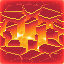
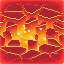
Auto push from gen.py

diff --git a/projects/Lava Floor/index.html b/projects/Lava Floor/index.html
@@ -38,7 +38,7 @@
                     <div class="action-bar">
                         <a class="action-download" href="./Lava-Floor_121092.pxc">
                             <div class="icon"></div>
-                            <p>Download .pxc (24.88 kb)</p>
+                            <p>Download .pxc (26.38 kb)</p>
                         </a>
                     </div>
                 </div>
@@ -178,84 +178,84 @@
 
     }
 
+drawNode("Cellular Noise", "https://docs.pixel-composer.com/nodes/_index/node_cellular.html", 32, 352, 128, 128, "./src/gSS8rf149270e4sAnRdxojjrMmlG49G1.png");
+drawNode("Invert", "https://docs.pixel-composer.com/nodes/_index/node_invert.html", 192, 432, 128, 128, "./src/gSS8t6234551pBJ88pxSHK8XX86hpwbx.png");
+connect(160, 376, 192, 456);
+drawNode("Draw Gradient", "https://docs.pixel-composer.com/nodes/_index/node_gradient.html", 192, 592, 128, 128, "./src/gSS8t9237806z4Fh8K8RAKdfqFfiWLud.png");
 drawNode("Blend", "https://docs.pixel-composer.com/nodes/_index/node_blend.html", 352, 512, 128, 128, "./src/gSS8tC241017qRIrrz8IhPCBGcHW5itk.png");
 connect(320, 456, 352, 536);
 connect(320, 616, 352, 552);
-drawNode("Invert", "https://docs.pixel-composer.com/nodes/_index/node_invert.html", 192, 432, 128, 128, "./src/gSS8t6234551pBJ88pxSHK8XX86hpwbx.png");
-connect(160, 376, 192, 456);
-drawNode("Level", "https://docs.pixel-composer.com/nodes/_index/node_level.html", 512, 352, 128, 128, "./src/gSS9951073537WfkrWFNw6lwP2WvlV68.png");
-connect(480, 376, 512, 376);
-drawNode("Cellular Noise", "https://docs.pixel-composer.com/nodes/_index/node_cellular.html", 32, 352, 128, 128, "./src/gSS8rf149270e4sAnRdxojjrMmlG49G1.png");
+drawNode("Threshold", "https://docs.pixel-composer.com/nodes/_index/node_threshold.html", 512, 512, 128, 128, "./src/gSS8tg270960F5E7c70F1BdcK1nws36P.png");
+connect(480, 536, 512, 536);
+drawNode("Smear", "https://docs.pixel-composer.com/nodes/_index/node_smear.html", 672, 512, 128, 128, "./src/gSS92q70037957IxQj7RIaxKbsK1zxxU.png");
+connect(640, 536, 672, 536);
 drawNode("Threshold", "https://docs.pixel-composer.com/nodes/_index/node_threshold.html", 352, 352, 128, 128, "./src/gSS979957950iHO5T8g8cqkPGCRgib6e.png");
 connect(320, 296, 352, 376);
-drawNode("Vignette", "https://docs.pixel-composer.com/nodes/_index/node_vignette.html", 192, 272, 128, 128, "./src/gSS9Fd1467956Da8xn83HP5xpj2YAgyn.png");
-connect(160, 376, 192, 296);
+drawNode("Blend", "https://docs.pixel-composer.com/nodes/_index/node_blend.html", 832, 352, 128, 128, "./src/gSS97Y983117cXLjI9tZVeZW7GOKjJor.png");
+connect(640, 376, 832, 376);
+connect(800, 536, 832, 392);
+connect(640, 536, 832, 408);
+drawNode("Level", "https://docs.pixel-composer.com/nodes/_index/node_level.html", 512, 352, 128, 128, "./src/gSS9951073537WfkrWFNw6lwP2WvlV68.png");
+connect(480, 376, 512, 376);
 drawNode("Colorize", "https://docs.pixel-composer.com/nodes/_index/node_colorize.html", 992, 352, 128, 128, "./src/gSS99N1091275AOxYFwy8dsFjyQNOHQc.png");
 connect(960, 376, 992, 376);
-drawNode("Level", "https://docs.pixel-composer.com/nodes/_index/node_level.html", 992, 192, 128, 128, "./src/gSS9IQ1635202HNmAimRxv82q0IP4Cy6.png");
-connect(960, 376, 992, 216);
-drawNode("Blend", "https://docs.pixel-composer.com/nodes/_index/node_blend.html", 1152, 160, 128, 128, "./src/gSS9IM1630306t31N1R6BRjeVXOavapa.png");
-connect(1120, 376, 1152, 184);
-connect(960, 200, 1152, 200);
-connect(1120, 216, 1152, 216);
+drawNode("Posterize", "https://docs.pixel-composer.com/nodes/_index/node_posterize.html", 1488, 352, 128, 128, "./src/gSS9A11129459ozzkVlQBz4BLn4wfzIV.png");
+connect(1616, 536, 1488, 376);
+drawNode("Vignette", "https://docs.pixel-composer.com/nodes/_index/node_vignette.html", 1328, 352, 128, 128, "./src/gSS9A811372125dhNoG5hLdwRA6EX2mf.png");
+connect(1296, 376, 1328, 376);
+drawNode("Convolution", "https://docs.pixel-composer.com/nodes/_index/node_convolution.html", 672, 688, 128, 128, "./src/gSS9C01248613XMdeez6rmEY7oAiNIqr.png");
+connect(640, 536, 672, 712);
 drawNode("Color Adjust", "https://docs.pixel-composer.com/nodes/_index/node_color_adjust.html", 1168, 352, 128, 128, "./src/gSS9CL1269248yBgkJWnfNBlUIzrf9Rn.png");
 connect(1280, 184, 1168, 376);
 connect(1120, 872, 1168, 392);
+drawNode("Convolution", "https://docs.pixel-composer.com/nodes/_index/node_convolution.html", 672, 848, 128, 128, "./src/gSS9DH1325365shVrWz6hzKehU6ukHRR.png");
+connect(640, 536, 672, 872);
+drawNode("Blend", "https://docs.pixel-composer.com/nodes/_index/node_blend.html", 832, 688, 128, 128, "./src/gSS9DT1337584A9whpZfuY68x9NLUtCr.png");
+connect(800, 712, 832, 712);
+connect(800, 872, 832, 728);
+connect(640, 744, 832, 744);
+drawNode("Draw Half", "https://docs.pixel-composer.com/nodes/_index/node_shape_half.html", 512, 720, 128, 128, "./src/gSS9DW1340427JMUWeubzo80GIXFa9ND.png");
+drawNode("Blend", "https://docs.pixel-composer.com/nodes/_index/node_blend.html", 832, 848, 128, 128, "./src/gSS9EK1389178ANwf07wcmwniyBtFgUr.png");
+connect(320, 616, 832, 872);
+connect(960, 712, 832, 888);
+drawNode("Level", "https://docs.pixel-composer.com/nodes/_index/node_level.html", 992, 848, 128, 128, "./src/gSS9Ej1413860GSzCFlfA8uE0V9Vnogu.png");
+connect(960, 872, 992, 872);
+drawNode("Vignette", "https://docs.pixel-composer.com/nodes/_index/node_vignette.html", 192, 272, 128, 128, "./src/gSS9Fd1467956Da8xn83HP5xpj2YAgyn.png");
+connect(160, 376, 192, 296);
+drawNode("Cellular Noise", "https://docs.pixel-composer.com/nodes/_index/node_cellular.html", 352, 32, 128, 128, "./src/gSS9Gf1530071XNu4ayKYRAZr6HfgmyT.png");
 drawNode("Colorize", "https://docs.pixel-composer.com/nodes/_index/node_colorize.html", 832, 176, 128, 128, "./src/gSS9Gr1541304QCw42tmmL98v4Q03Uun.png");
 connect(800, 200, 832, 200);
 drawNode("Curve", "https://docs.pixel-composer.com/nodes/_index/node_curve.html", 672, 176, 128, 128, "./src/gSS9HJ1567707OdjZxCQPHraYqYfgcti.png");
 connect(640, 200, 672, 200);
+drawNode("Simplex Noise", "https://docs.pixel-composer.com/nodes/_index/node_noise_simplex.html", 192, 96, 128, 128, "./src/gSS9HY1583019BKxS9NnpOqxkpBxEE3u.png");
 drawNode("Displace", "https://docs.pixel-composer.com/nodes/_index/node_displace.html", 512, 176, 128, 128, "./src/gSS9Hb1585682fxLpULjg8AxeRSUya8v.png");
 connect(480, 56, 512, 200);
 connect(480, 216, 512, 248);
 drawNode("Offset", "https://docs.pixel-composer.com/nodes/_index/node_offset.html", 352, 192, 128, 128, "./src/gSS9I11609958IwJOvGb8NbtMi78v6Z6.png");
 connect(320, 120, 352, 216);
-drawNode("Simplex Noise", "https://docs.pixel-composer.com/nodes/_index/node_noise_simplex.html", 192, 96, 128, 128, "./src/gSS9HY1583019BKxS9NnpOqxkpBxEE3u.png");
-drawNode("Cellular Noise", "https://docs.pixel-composer.com/nodes/_index/node_cellular.html", 352, 32, 128, 128, "./src/gSS9Gf1530071XNu4ayKYRAZr6HfgmyT.png");
-drawNode("Vignette", "https://docs.pixel-composer.com/nodes/_index/node_vignette.html", 1328, 352, 128, 128, "./src/gSS9A811372125dhNoG5hLdwRA6EX2mf.png");
-connect(1296, 376, 1328, 376);
-drawNode("Blend", "https://docs.pixel-composer.com/nodes/_index/node_blend.html", 992, 544, 128, 128, "./src/gSS9Ob2005641KbxAKzKy2y8xaGC5S1O.png");
-connect(640, 536, 992, 568);
-connect(640, 744, 992, 584);
-drawNode("Threshold", "https://docs.pixel-composer.com/nodes/_index/node_threshold.html", 512, 512, 128, 128, "./src/gSS8tg270960F5E7c70F1BdcK1nws36P.png");
-connect(480, 536, 512, 536);
-drawNode("Smear", "https://docs.pixel-composer.com/nodes/_index/node_smear.html", 672, 512, 128, 128, "./src/gSS92q70037957IxQj7RIaxKbsK1zxxU.png");
-connect(640, 536, 672, 536);
-drawNode("Convolution", "https://docs.pixel-composer.com/nodes/_index/node_convolution.html", 672, 848, 128, 128, "./src/gSS9DH1325365shVrWz6hzKehU6ukHRR.png");
-connect(640, 536, 672, 872);
-drawNode("Convolution", "https://docs.pixel-composer.com/nodes/_index/node_convolution.html", 672, 688, 128, 128, "./src/gSS9C01248613XMdeez6rmEY7oAiNIqr.png");
-connect(640, 536, 672, 712);
-drawNode("Blend", "https://docs.pixel-composer.com/nodes/_index/node_blend.html", 832, 688, 128, 128, "./src/gSS9DT1337584A9whpZfuY68x9NLUtCr.png");
-connect(800, 712, 832, 712);
-connect(800, 872, 832, 728);
-connect(640, 744, 832, 744);
-drawNode("Blend", "https://docs.pixel-composer.com/nodes/_index/node_blend.html", 832, 848, 128, 128, "./src/gSS9EK1389178ANwf07wcmwniyBtFgUr.png");
-connect(320, 616, 832, 872);
-connect(960, 712, 832, 888);
-drawNode("Draw Half", "https://docs.pixel-composer.com/nodes/_index/node_shape_half.html", 512, 720, 128, 128, "./src/gSS9DW1340427JMUWeubzo80GIXFa9ND.png");
-drawNode("Level", "https://docs.pixel-composer.com/nodes/_index/node_level.html", 992, 848, 128, 128, "./src/gSS9Ej1413860GSzCFlfA8uE0V9Vnogu.png");
-connect(960, 872, 992, 872);
-drawNode("Blend", "https://docs.pixel-composer.com/nodes/_index/node_blend.html", 832, 352, 128, 128, "./src/gSS97Y983117cXLjI9tZVeZW7GOKjJor.png");
-connect(640, 376, 832, 376);
-connect(800, 536, 832, 392);
-connect(640, 536, 832, 408);
-drawNode("Draw Gradient", "https://docs.pixel-composer.com/nodes/_index/node_gradient.html", 192, 592, 128, 128, "./src/gSS8t9237806z4Fh8K8RAKdfqFfiWLud.png");
-drawNode("Color Adjust", "https://docs.pixel-composer.com/nodes/_index/node_color_adjust.html", 1488, 512, 128, 128, "./src/gSS9RK21685742wuNRenXfzE0i40BwAQ.png");
-connect(1456, 536, 1488, 536);
-connect(1456, 696, 1488, 552);
+drawNode("Blend", "https://docs.pixel-composer.com/nodes/_index/node_blend.html", 1152, 160, 128, 128, "./src/gSS9IM1630306t31N1R6BRjeVXOavapa.png");
+connect(1120, 376, 1152, 184);
+connect(960, 200, 1152, 200);
+connect(1120, 216, 1152, 216);
+drawNode("Level", "https://docs.pixel-composer.com/nodes/_index/node_level.html", 992, 192, 128, 128, "./src/gSS9IQ1635202HNmAimRxv82q0IP4Cy6.png");
+connect(960, 376, 992, 216);
 drawNode("Bloom", "https://docs.pixel-composer.com/nodes/_index/node_bloom.html", 1648, 352, 128, 128, "./src/gSS9KN1751465IXvrifi3EifoUIuKKUM.png");
 connect(1616, 376, 1648, 376);
-drawNode("Posterize", "https://docs.pixel-composer.com/nodes/_index/node_posterize.html", 1488, 352, 128, 128, "./src/gSS9A11129459ozzkVlQBz4BLn4wfzIV.png");
-connect(1616, 536, 1488, 376);
+drawNode("Particle", "https://docs.pixel-composer.com/nodes/_index/node_particle.html", 1168, 528, 128, 128, "./src/gSS9LL1809841tJHkMWRXMYOxX2HkW6k.png");
 drawNode("Blend", "https://docs.pixel-composer.com/nodes/_index/node_blend.html", 1328, 512, 128, 128, "./src/gSS9MJ1867485D3xmVpZFm8W0AjPbMsM.png");
 connect(1456, 376, 1328, 536);
 connect(1296, 552, 1328, 552);
 connect(1120, 568, 1328, 568);
-drawNode("Particle", "https://docs.pixel-composer.com/nodes/_index/node_particle.html", 1168, 528, 128, 128, "./src/gSS9LL1809841tJHkMWRXMYOxX2HkW6k.png");
-drawNode("Project Output", "https://docs.pixel-composer.com/nodes/_index/node_project_output.html", 1808, 352, 128, 128, "./src/gSS9Y9257768151zk88EVf56kb0LWJud.png");
-connect(1776, 376, 1808, 376);
+drawNode("Blend", "https://docs.pixel-composer.com/nodes/_index/node_blend.html", 992, 544, 128, 128, "./src/gSS9Ob2005641KbxAKzKy2y8xaGC5S1O.png");
+connect(640, 536, 992, 568);
+connect(640, 744, 992, 584);
 drawNode("Smear", "https://docs.pixel-composer.com/nodes/_index/node_smear.html", 1328, 672, 128, 128, "./src/gSS9R02149151A4J8CJvcbzAIFjxe73H.png");
 connect(1120, 216, 1328, 696);
+drawNode("Color Adjust", "https://docs.pixel-composer.com/nodes/_index/node_color_adjust.html", 1488, 512, 128, 128, "./src/gSS9RK21685742wuNRenXfzE0i40BwAQ.png");
+connect(1456, 536, 1488, 536);
+connect(1456, 696, 1488, 552);
+drawNode("Project Output", "https://docs.pixel-composer.com/nodes/_index/node_project_output.html", 1808, 352, 128, 128, "./src/gSS9Y9257768151zk88EVf56kb0LWJud.png");
+connect(1776, 376, 1808, 376);
 
 
     // drawNode("Node Title", 16, 16, 96, 32);

diff --git a/showcases.html b/showcases.html
@@ -31,7 +31,7 @@
         <img class="thumbnail full" src="projects/Lava Floor/thumbnail.gif" loading="lazy">
         <div class="badge animated">gif</div>
     </a>
-    <a class="description" title="Download .pxc (24.88 kb)" href="./projects\Lava Floor\Lava-Floor_121092.pxc">
+    <a class="description" title="Download .pxc (26.38 kb)" href="./projects\Lava Floor\Lava-Floor_121092.pxc">
         <h3 class="project-title">Lava Floor</h3>
         <div class="project-download"></div>
     </a>
